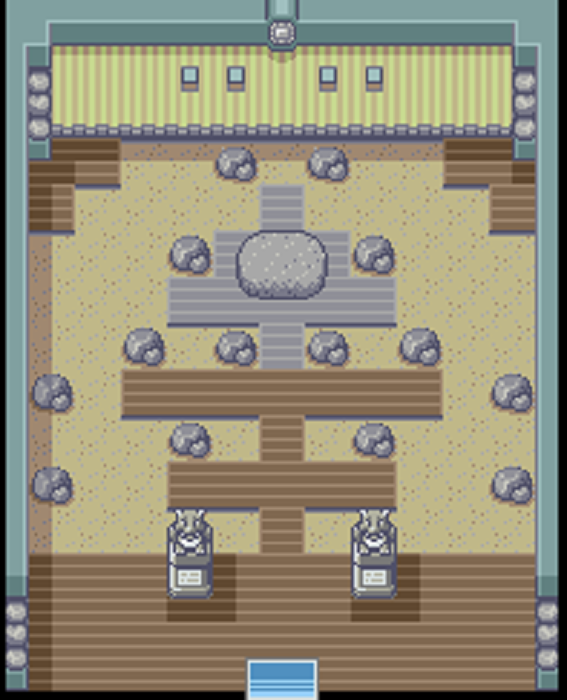
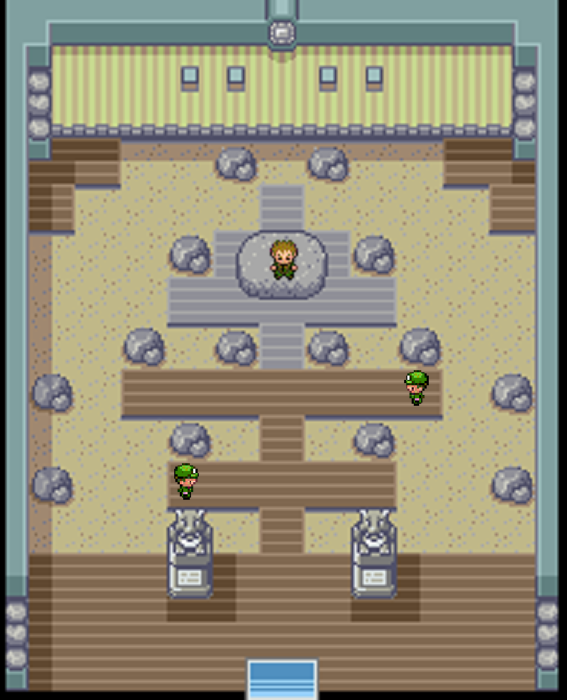
Added Gym trainers

Changed region(s): [[0.4797, 0.33, 0.5397, 0.42], [0.7196, 0.51, 0.7795, 0.6], [0.2998, 0.66, 0.3598, 0.72]]

diff --git a/src/MasseyMon.java b/src/MasseyMon.java
@@ -309,7 +309,7 @@ class GamePanel extends JPanel {
 					movable = true;
 				}
 			}
-
+			/*
 			if (trainerText){
 				if (Textbox.getTextWriting()) {
 					if (talking) {
@@ -322,6 +322,8 @@ class GamePanel extends JPanel {
 					movable = true;
 				}
 			}
+
+			 */
 
 			if (movable) {
 				if (picIndex == 0 && miniPicIndex == 1) {
@@ -590,31 +592,34 @@ class GamePanel extends JPanel {
 							myGuy.setScreenX(MasseyMon.getMap(picIndex).getStartPosX7());
 						}
 					}
-					if (checkTrainer1(myGuy.getWorldX(), myGuy.getWorldY() - 1, myGuy.getWorldX() + 20, myGuy.getWorldY() - 1)){
+					/*
+					else if (checkTrainer1(myGuy.getWorldX(), myGuy.getWorldY() - 1, myGuy.getWorldX() + 20, myGuy.getWorldY() - 1)){
 						talking = true;
 						trainerText = true;
 						Textbox.setTextWriting(true);
 						trainerTextIndex = randint(4,10);
 					}
-					if (checkTrainer2(myGuy.getWorldX(), myGuy.getWorldY() - 1, myGuy.getWorldX() + 20, myGuy.getWorldY() - 1)){
+					else if (checkTrainer2(myGuy.getWorldX(), myGuy.getWorldY() - 1, myGuy.getWorldX() + 20, myGuy.getWorldY() - 1)){
 						talking = true;
 						trainerText = true;
 						Textbox.setTextWriting(true);
 						trainerTextIndex = randint(4,10);
 					}
-					if (checkTrainer3(myGuy.getWorldX(), myGuy.getWorldY() - 1, myGuy.getWorldX() + 20, myGuy.getWorldY() - 1)){
+
+					 */
+					else if (checkTrainer3(myGuy.getWorldX(), myGuy.getWorldY() - 1, myGuy.getWorldX() + 20, myGuy.getWorldY() - 1)){
 						talking = true;
 						trainerText = true;
 						Textbox.setTextWriting(true);
 						trainerTextIndex = randint(4,10);
 					}
-					if (checkTrainer4(myGuy.getWorldX(), myGuy.getWorldY() - 1, myGuy.getWorldX() + 20, myGuy.getWorldY() - 1)){
+					else if (checkTrainer4(myGuy.getWorldX(), myGuy.getWorldY() - 1, myGuy.getWorldX() + 20, myGuy.getWorldY() - 1)){
 						talking = true;
 						trainerText = true;
 						Textbox.setTextWriting(true);
 						trainerTextIndex = randint(4,10);
 					}
-					if (checkTrainer5(myGuy.getWorldX(), myGuy.getWorldY() - 1, myGuy.getWorldX() + 20, myGuy.getWorldY() - 1)){
+					else if (checkTrainer5(myGuy.getWorldX(), myGuy.getWorldY() - 1, myGuy.getWorldX() + 20, myGuy.getWorldY() - 1)){
 						talking = true;
 						trainerText = true;
 						Textbox.setTextWriting(true);
@@ -800,25 +805,25 @@ class GamePanel extends JPanel {
 							myGuy.setScreenX(MasseyMon.getMap(picIndex).getStartPosX());
 						}
 					}
-					if (checkTrainer1(myGuy.getWorldX(), myGuy.getWorldY() - 1, myGuy.getWorldX() + 20, myGuy.getWorldY() - 1)){
+					else if (checkTrainer1(myGuy.getWorldX(), myGuy.getWorldY() - 1, myGuy.getWorldX() + 20, myGuy.getWorldY() - 1)){
 						talking = true;
 						trainerText = true;
 						Textbox.setTextWriting(true);
 						trainerTextIndex = randint(4,10);
 					}
-					if (checkTrainer2(myGuy.getWorldX(), myGuy.getWorldY() - 1, myGuy.getWorldX() + 20, myGuy.getWorldY() - 1)){
+					else if (checkTrainer2(myGuy.getWorldX(), myGuy.getWorldY() - 1, myGuy.getWorldX() + 20, myGuy.getWorldY() - 1)){
 						talking = true;
 						trainerText = true;
 						Textbox.setTextWriting(true);
 						trainerTextIndex = randint(4,10);
 					}
-					if (checkTrainer4(myGuy.getWorldX(), myGuy.getWorldY() - 1, myGuy.getWorldX() + 20, myGuy.getWorldY() - 1)){
+					else if (checkTrainer4(myGuy.getWorldX(), myGuy.getWorldY() - 1, myGuy.getWorldX() + 20, myGuy.getWorldY() - 1)){
 						talking = true;
 						trainerText = true;
 						Textbox.setTextWriting(true);
 						trainerTextIndex = randint(4,10);
 					}
-					if (checkTrainer6(myGuy.getWorldX(), myGuy.getWorldY() - 1, myGuy.getWorldX() + 20, myGuy.getWorldY() - 1)){
+					else if (checkTrainer6(myGuy.getWorldX(), myGuy.getWorldY() - 1, myGuy.getWorldX() + 20, myGuy.getWorldY() - 1)){
 						talking = true;
 						trainerText = true;
 						Textbox.setTextWriting(true);
@@ -886,19 +891,19 @@ class GamePanel extends JPanel {
 							myGuy.setScreenX(MasseyMon.getMap(picIndex).getStartPosX7());
 						}
 					}
-					if (checkTrainer1(myGuy.getWorldX(), myGuy.getWorldY() - 1, myGuy.getWorldX() + 20, myGuy.getWorldY() - 1)){
+					else if (checkTrainer1(myGuy.getWorldX(), myGuy.getWorldY() - 1, myGuy.getWorldX() + 20, myGuy.getWorldY() - 1)){
 						talking = true;
 						trainerText = true;
 						Textbox.setTextWriting(true);
 						trainerTextIndex = randint(4,10);
 					}
-					if (checkTrainer2(myGuy.getWorldX(), myGuy.getWorldY() - 1, myGuy.getWorldX() + 20, myGuy.getWorldY() - 1)){
+					else if (checkTrainer2(myGuy.getWorldX(), myGuy.getWorldY() - 1, myGuy.getWorldX() + 20, myGuy.getWorldY() - 1)){
 						talking = true;
 						trainerText = true;
 						Textbox.setTextWriting(true);
 						trainerTextIndex = randint(4,10);
 					}
-					if (checkTrainer3(myGuy.getWorldX(), myGuy.getWorldY() - 1, myGuy.getWorldX() + 20, myGuy.getWorldY() - 1)){
+					else if (checkTrainer3(myGuy.getWorldX(), myGuy.getWorldY() - 1, myGuy.getWorldX() + 20, myGuy.getWorldY() - 1)){
 						talking = true;
 						trainerText = true;
 						Textbox.setTextWriting(true);
@@ -965,7 +970,7 @@ class GamePanel extends JPanel {
 							myGuy.setScreenX(MasseyMon.getMap(picIndex).getStartPosX());
 						}
 					}
-					if (checkTrainer4(myGuy.getWorldX(), myGuy.getWorldY() - 1, myGuy.getWorldX() + 20, myGuy.getWorldY() - 1)){
+					else if (checkTrainer4(myGuy.getWorldX(), myGuy.getWorldY() - 1, myGuy.getWorldX() + 20, myGuy.getWorldY() - 1)){
 						talking = true;
 						trainerText = true;
 						Textbox.setTextWriting(true);

diff --git a/src/Textbox.java b/src/Textbox.java
@@ -10,8 +10,8 @@ public class Textbox {
     private static int count, textX, textY,pauseCount,box,arraySize,temp;
     private static boolean boxFull,textWriting;
     private static Image textBox;
-    private static String[][] words = new String[11][2];
-    private static int [] wordLen = new int [22];
+    private static String[][] words = new String[12][2];
+    private static int [] wordLen = new int [24];
 
     public Textbox() throws IOException {
         arraySize = 0;
@@ -25,7 +25,7 @@ public class Textbox {
         textBox = ImageIO.read(new File("Images/Text/Textbox.png"));
 
         Scanner inFile = new Scanner(new BufferedReader(new FileReader("Data/Textbox")));
-        for (int i = 0; i < 11; i++) {
+        for (int i = 0; i < 12; i++) {
             for (int k = 0; k<2; k++) {
                 String line = inFile.nextLine();
                 words[i][k] = line;
@@ -33,7 +33,7 @@ public class Textbox {
         }
 
         Scanner myFile = new Scanner(new BufferedReader(new FileReader("Data/TextboxCharacterLength")));
-        for (int i = 0; i < 22; i++) {
+        for (int i = 0; i < 24; i++) {
             int val = myFile.nextInt();
             wordLen[i] = val;
         }
